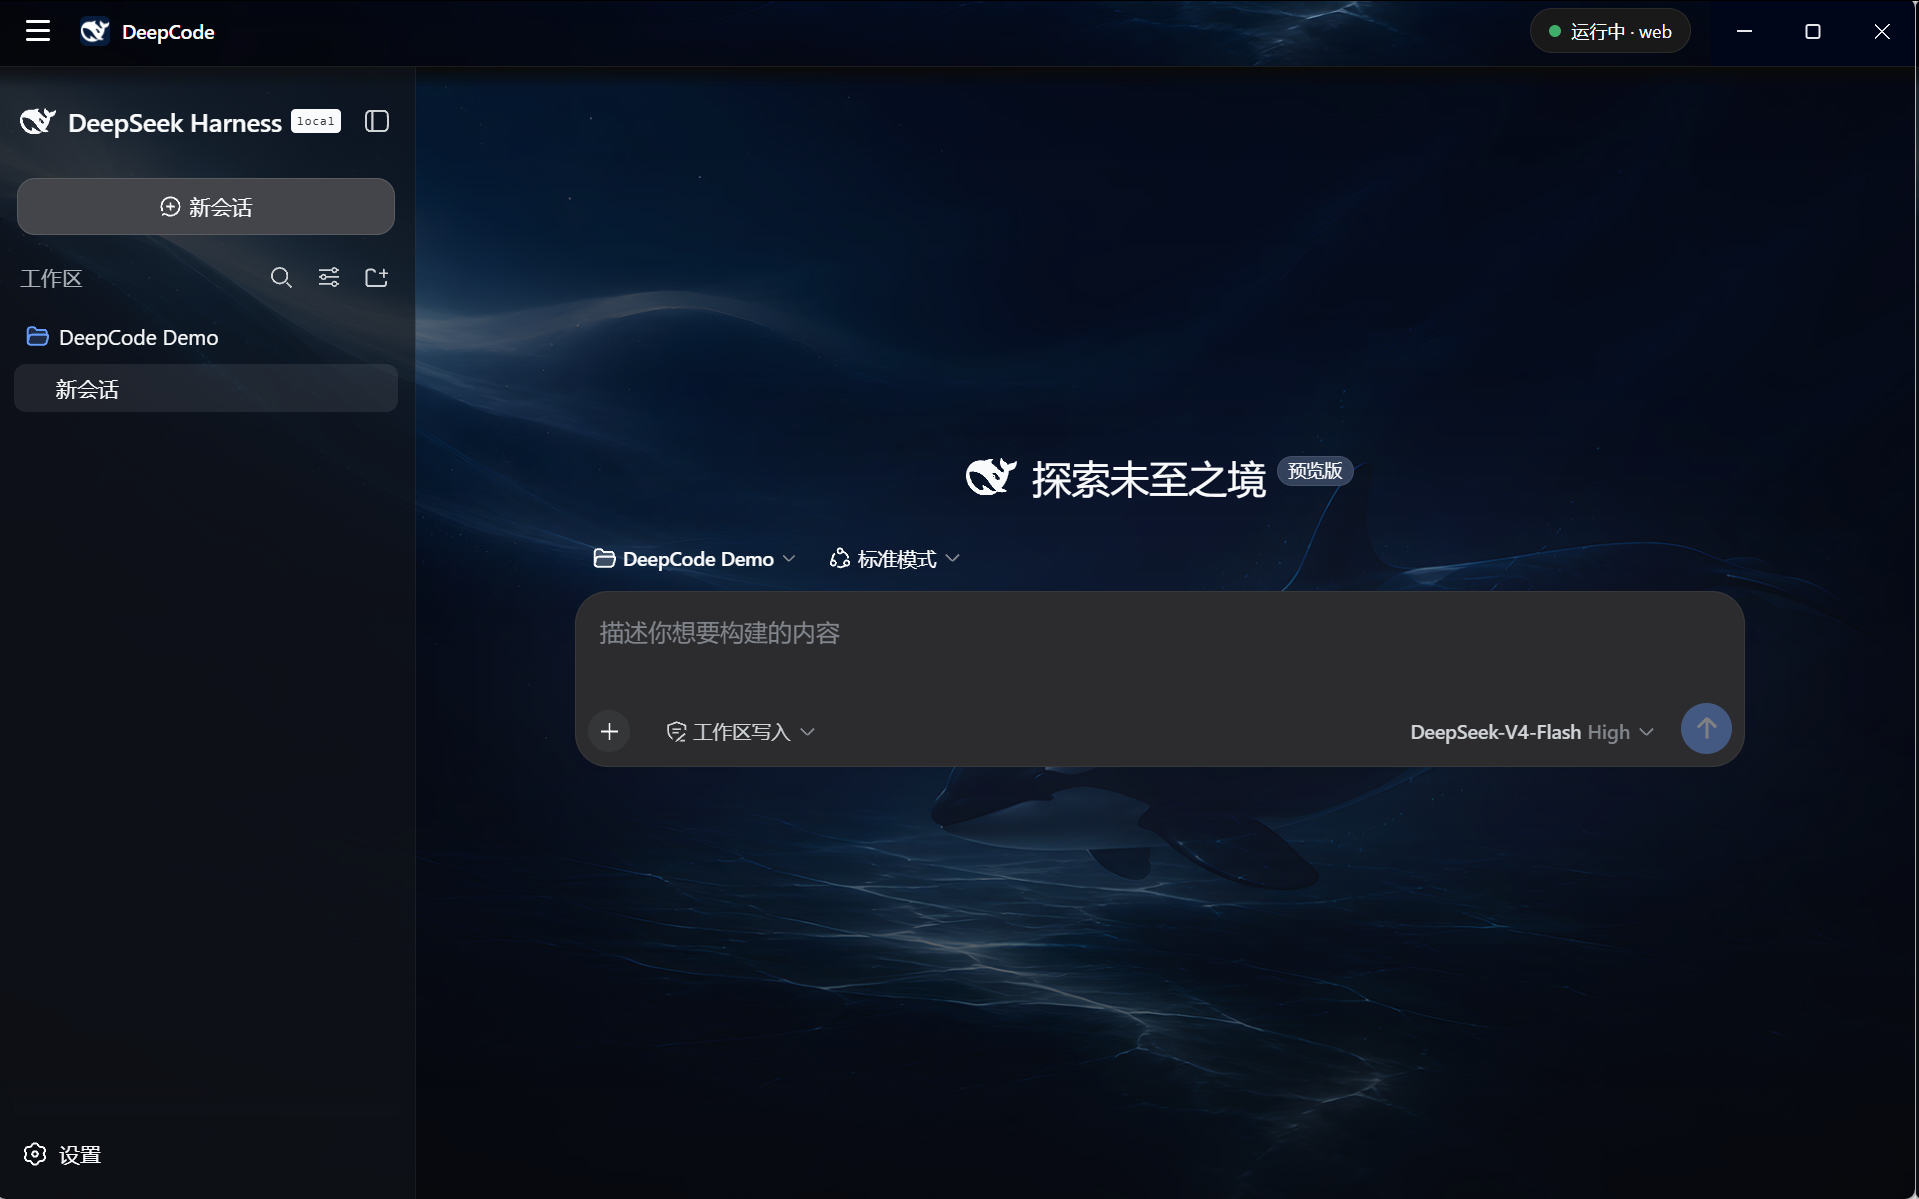
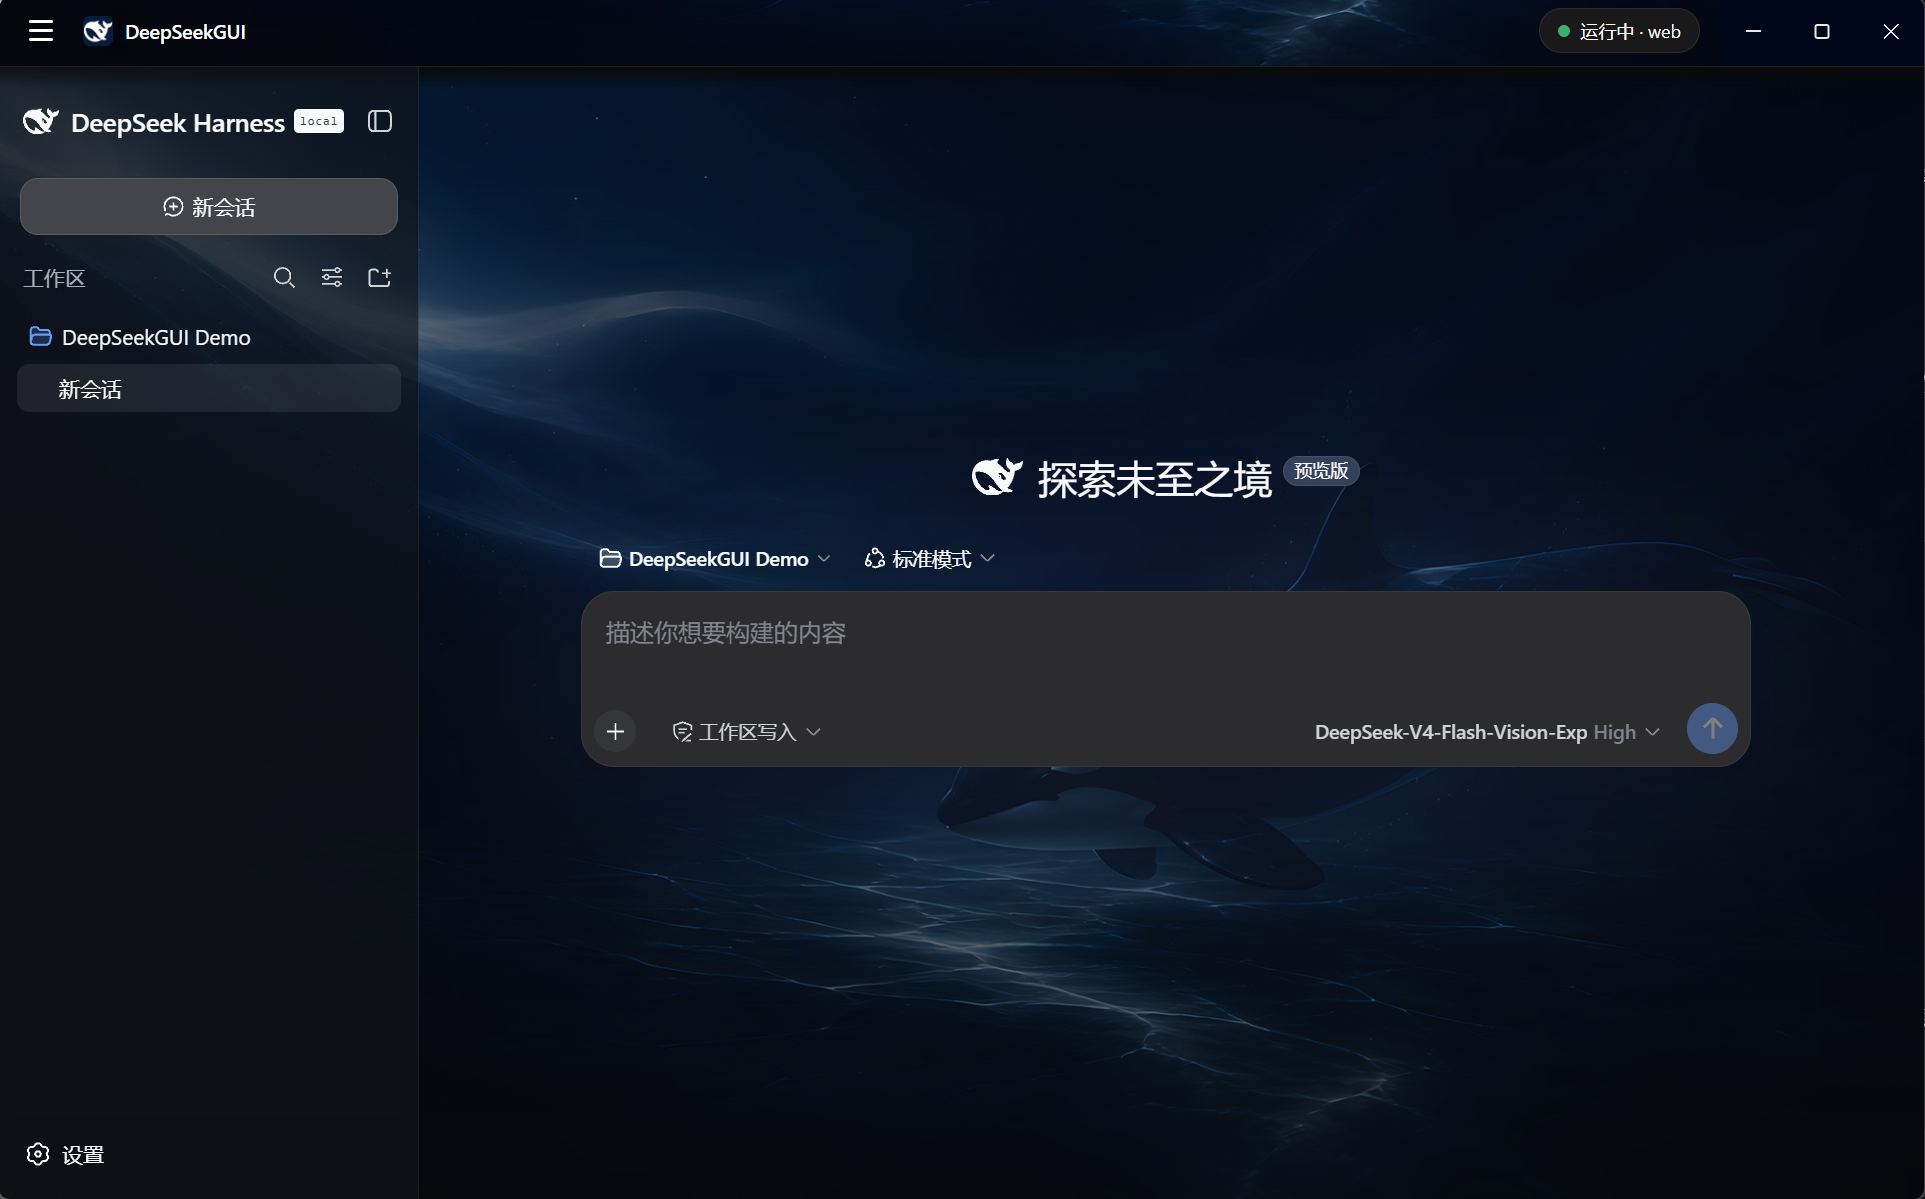
assets: replace product shots with DeepSeek GUI build
The hero screenshots still showed the old product name in the title
bar and workspace list. Recaptured from the renamed desktop build and
updated the declared width to match.

diff --git a/deepseekgui/index.html b/deepseekgui/index.html
@@ -41,8 +41,8 @@
 
         <div class="product-stage" aria-label="DeepSeek GUI 实机界面">
           <button class="product-window product-shot-switcher" type="button" aria-label="切换 DeepSeek GUI 深浅色实机界面" aria-pressed="false">
-            <img class="product-shot product-shot-light" src="./assets/deepseekgui-light.png" width="1919" height="1199" alt="DeepSeek GUI 浅色模式实机界面" fetchpriority="high" />
-            <img class="product-shot product-shot-dark" src="./assets/deepseekgui-dark.png" width="1919" height="1199" alt="" aria-hidden="true" />
+            <img class="product-shot product-shot-light" src="./assets/deepseekgui-light.png" width="1925" height="1199" alt="DeepSeek GUI 浅色模式实机界面" fetchpriority="high" />
+            <img class="product-shot product-shot-dark" src="./assets/deepseekgui-dark.png" width="1925" height="1199" alt="" aria-hidden="true" />
           </button>
           <p class="stage-caption">DeepSeek GUI 实机界面 · <span class="pointer-caption">悬停查看深色模式</span><span class="touch-caption">轻触切换深浅模式</span></p>
         </div>
